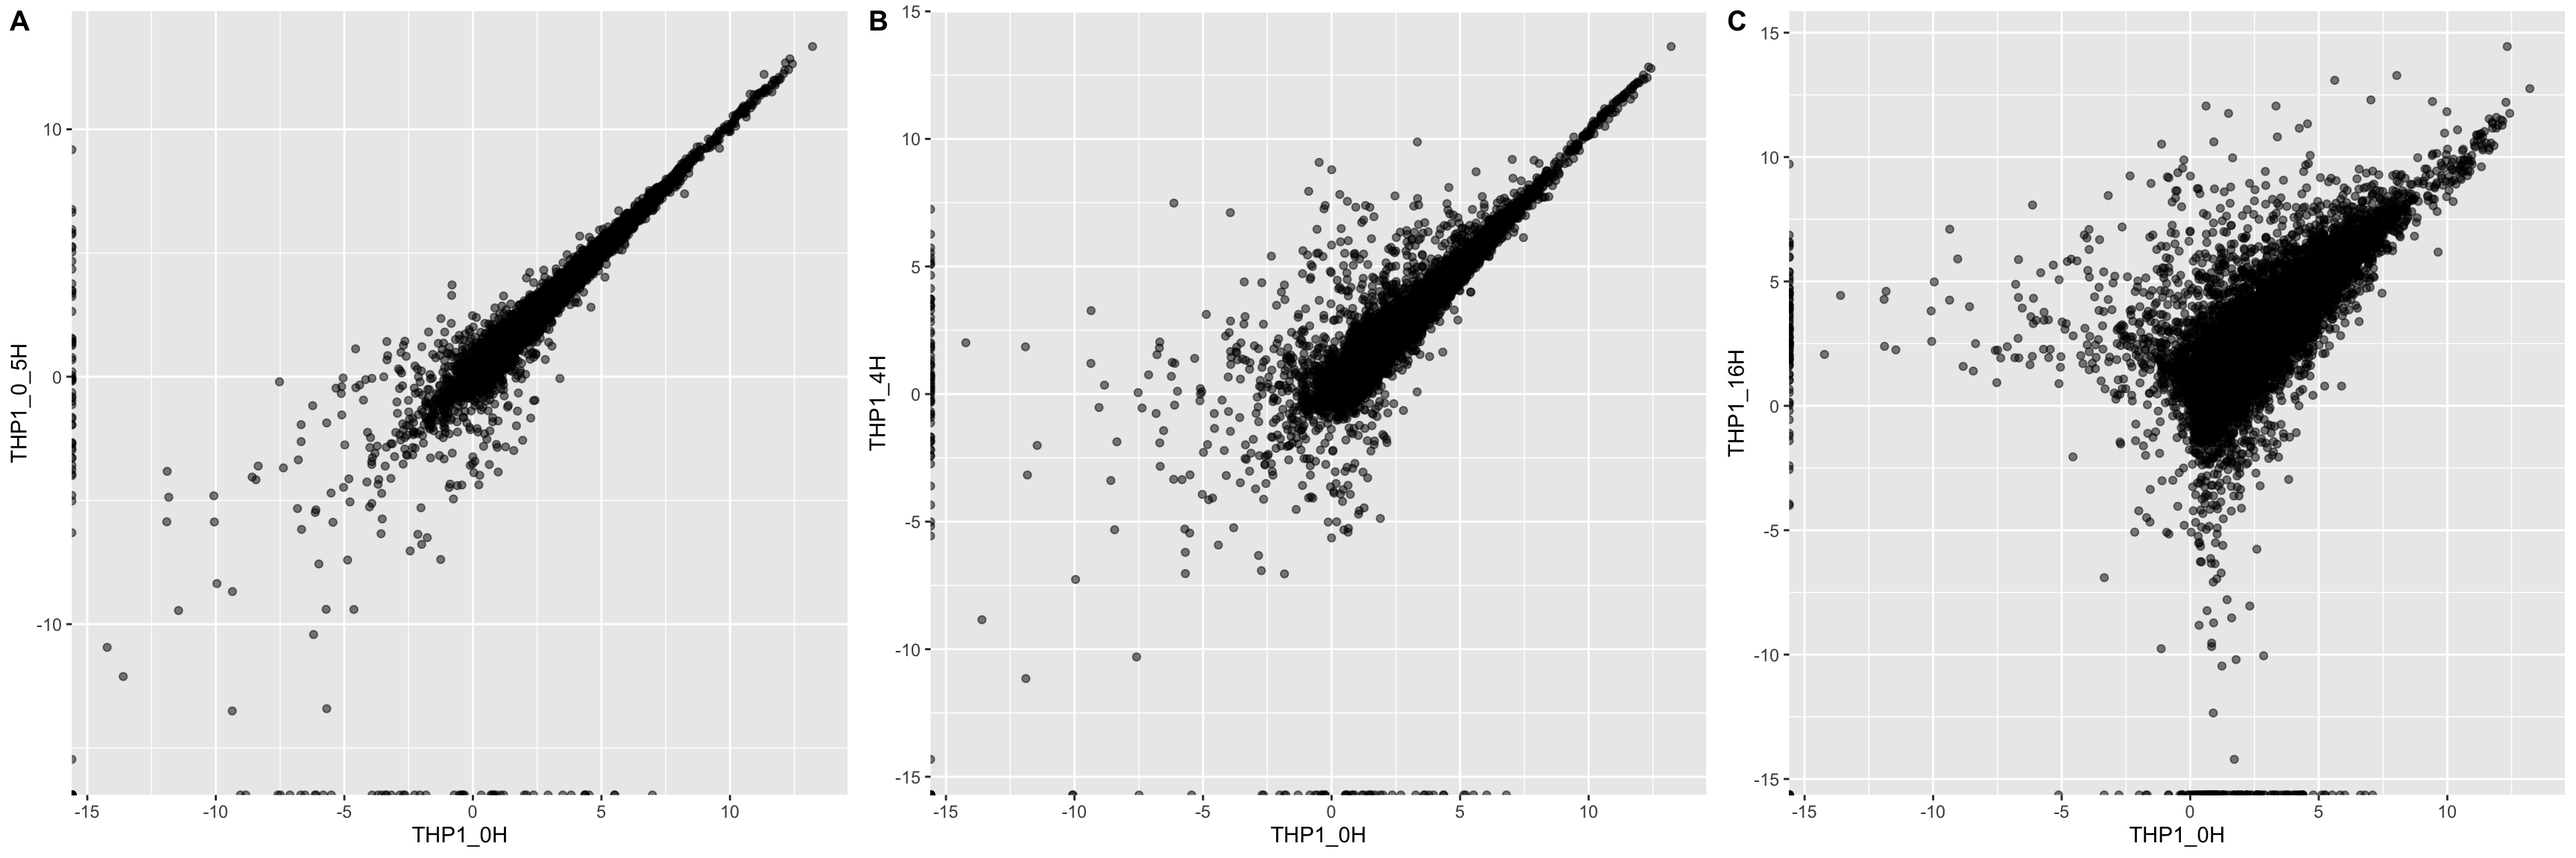
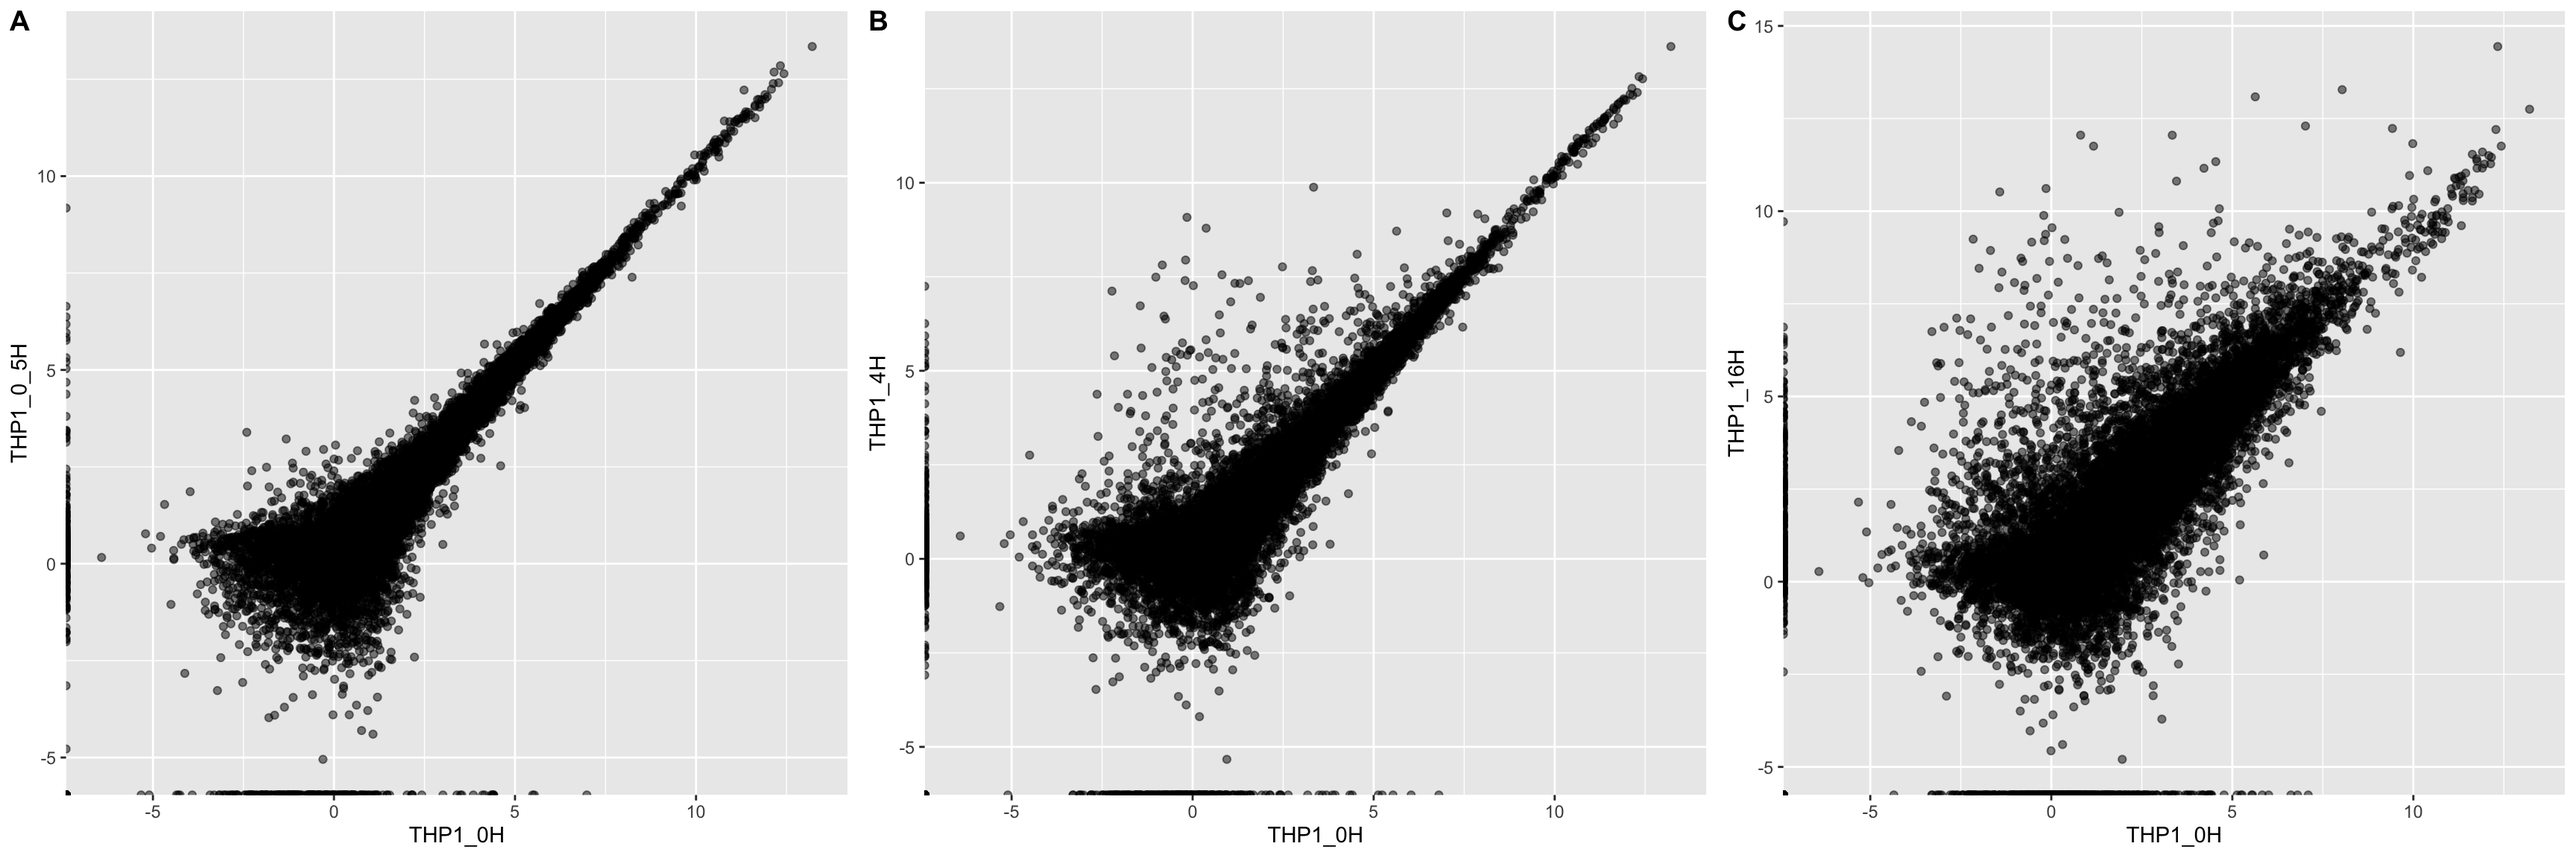
changed wording to clarify when simulated data is used

diff --git a/content/post/2019-08-16-r-fridays-7-fluorescence-anisotropy.html b/content/post/2019-08-16-r-fridays-7-fluorescence-anisotropy.html
@@ -19,39 +19,39 @@ excerpt: "In this post we will analyze fluorescence anisotropy data to determine
 <p>Today’s data and code were generously provided by <a href="https://lab.vanderbilt.edu/ren-lab/person/andrew-morris/">Andrew Morris</a> of the Ren lab. <a href="https://en.wikipedia.org/wiki/Fluorescence_anisotropy">Fluorescence anisotropy</a> is a technique to measure the binding of a fluorescent molecule to a protein of interest. If the fluorescent molecule is bound to the protein, it should have less freedom of movement in solution, resulting in the emitted light being more polarized. This allows for estimation of binding kinetics.</p>
 <div id="the-data" class="section level2">
 <h2>The data</h2>
-<p>Andrew used fluorescence anisotropy to measure binding of a mutant protein in different buffer conditions. He compared binding of the wild-type protein in 150mM NaCl in tris buffer to binding of the mutant protein in 50mM NaCl in tris buffer, 150mM NaCl in tris buffer, and 150mM NaCl in HEPES buffer.</p>
+<p>Andrew used fluorescence anisotropy to measure binding of a mutant protein in different buffer conditions. He compared binding of the wild-type protein in 150mM NaCl in tris buffer to binding of the mutant protein in 50mM NaCl in tris buffer, 150mM NaCl in tris buffer, and 150mM NaCl in HEPES buffer. Today we will be working with data simulated from his experiment.</p>
 </div>
 <div id="loading-in-the-data" class="section level2">
 <h2>Loading in the data</h2>
 <p>Andrew read in his data using <code>read_tsv()</code> from the tidyverse package:</p>
 <pre class="r"><code>library(tidyverse)</code></pre>
-<pre><code>## ── Attaching packages ──────────────────────────────────────────────────────────────────────────────────────────────────────────────────── tidyverse 1.2.1 ──</code></pre>
+<pre><code>## ── Attaching packages ────────────────────────────────────────────────────────────── tidyverse 1.2.1 ──</code></pre>
 <pre><code>## ✔ ggplot2 3.2.1     ✔ purrr   0.3.2
 ## ✔ tibble  2.1.3     ✔ dplyr   0.8.3
 ## ✔ tidyr   1.0.0     ✔ stringr 1.4.0
 ## ✔ readr   1.3.1     ✔ forcats 0.4.0</code></pre>
-<pre><code>## ── Conflicts ─────────────────────────────────────────────────────────────────────────────────────────────────────────────────────── tidyverse_conflicts() ──
+<pre><code>## ── Conflicts ───────────────────────────────────────────────────────────────── tidyverse_conflicts() ──
 ## ✖ dplyr::filter() masks stats::filter()
 ## ✖ dplyr::lag()    masks stats::lag()</code></pre>
-<pre class="r"><code>nacl50_tris &lt;- read_tsv(&quot;../../data/50NaCl_Tris.txt&quot;)</code></pre>
+<pre class="r"><code>nacl50_tris &lt;- read_tsv(&quot;../../data/andrew_081619_50NaCl_Tris_noise.tsv&quot;)</code></pre>
 <pre><code>## Parsed with column specification:
 ## cols(
 ##   NP = col_double(),
 ##   ani = col_double()
 ## )</code></pre>
-<pre class="r"><code>nacl150_tris &lt;- read_tsv(&quot;../../data/150NaCl_Tris.txt&quot;)</code></pre>
+<pre class="r"><code>nacl150_tris &lt;- read_tsv(&quot;../../data/andrew_081619_150NaCl_Tris_noise.tsv&quot;)</code></pre>
 <pre><code>## Parsed with column specification:
 ## cols(
 ##   NP = col_double(),
 ##   ani = col_double()
 ## )</code></pre>
-<pre class="r"><code>nacl150_hepes &lt;- read_tsv(&quot;../../data/150NaCl_HEPES.txt&quot;)</code></pre>
+<pre class="r"><code>nacl150_hepes &lt;- read_tsv(&quot;../../data/andrew_081619_150NaCl_HEPES_noise.tsv&quot;)</code></pre>
 <pre><code>## Parsed with column specification:
 ## cols(
 ##   NP = col_double(),
 ##   ani = col_double()
 ## )</code></pre>
-<pre class="r"><code>wt &lt;- read_tsv(&quot;../../data/WT.txt&quot;)</code></pre>
+<pre class="r"><code>wt &lt;- read_tsv(&quot;../../data/andrew_081619_WT_noise.tsv&quot;)</code></pre>
 <pre><code>## Parsed with column specification:
 ## cols(
 ##   NP = col_double(),
@@ -79,15 +79,15 @@ summary(model.nls)</code></pre>
 ## 
 ## Parameters:
 ##    Estimate Std. Error t value Pr(&gt;|t|)    
-## K    361.80      52.14   6.939 9.75e-07 ***
-## Vm   301.13      13.50  22.307 1.33e-15 ***
+## K    368.07      54.09   6.805 1.29e-06 ***
+## Vm   302.04      13.91  21.716 2.23e-15 ***
 ## ---
 ## Signif. codes:  0 &#39;***&#39; 0.001 &#39;**&#39; 0.01 &#39;*&#39; 0.05 &#39;.&#39; 0.1 &#39; &#39; 1
 ## 
-## Residual standard error: 18.95 on 20 degrees of freedom
+## Residual standard error: 19.39 on 20 degrees of freedom
 ## 
-## Number of iterations to convergence: 7 
-## Achieved convergence tolerance: 7.747e-06</code></pre>
+## Number of iterations to convergence: 8 
+## Achieved convergence tolerance: 6.868e-06</code></pre>
 <p>Andrew then used base R to plot his data and model</p>
 <pre class="r"><code>plot(wt)
 lines(wt$NP, predict(model.nls), col = &quot;red&quot;)</code></pre>
@@ -114,15 +114,15 @@ summary(hill_model.nls)</code></pre>
 ## 
 ## Parameters:
 ##     Estimate Std. Error t value Pr(&gt;|t|)    
-## Ka 246.67982    4.34017   56.84   &lt;2e-16 ***
-## n    1.82513    0.05166   35.33   &lt;2e-16 ***
+## Ka 249.15889    4.27001   58.35   &lt;2e-16 ***
+## n    1.83856    0.05118   35.92   &lt;2e-16 ***
 ## ---
 ## Signif. codes:  0 &#39;***&#39; 0.001 &#39;**&#39; 0.01 &#39;*&#39; 0.05 &#39;.&#39; 0.1 &#39; &#39; 1
 ## 
-## Residual standard error: 0.01809 on 20 degrees of freedom
+## Residual standard error: 0.01775 on 20 degrees of freedom
 ## 
 ## Number of iterations to convergence: 5 
-## Achieved convergence tolerance: 1.041e-06</code></pre>
+## Achieved convergence tolerance: 5.86e-07</code></pre>
 <p>Then he plotted the data as before.</p>
 <pre class="r"><code>plot(wt)
 lines(wt$NP, predict(hill_model.nls), col = &quot;red&quot;)</code></pre>

diff --git a/content/post/2019-08-09-r-fridays-6.html b/content/post/2019-08-09-r-fridays-6.html
@@ -16,7 +16,7 @@ excerpt: "Katie Rothamel demonstrates how to visualize FPKM values from RNA-seq 
 <p>Hey everyone! Today we will be discussing how to import and visualize results from RNA-seq experiments. The code below was generously provided by <a href="https://lab.vanderbilt.edu/ascano-lab/person/katherine-rothamel/">Katie Rothamel</a> of the Ascano lab.</p>
 <div id="the-experiment" class="section level2">
 <h2>The experiment</h2>
-<p>The example dataset was simulated from a real experiment comparing RNA expression levels from two conditions (treated and untreated) in a human monocyte cell line (THP1). The cells were treated with cGAMP, an agonist of the STING signaling pathway, to stimulate an innate immune response. The treatment was also performed in a timecourse, with 0 hours representing the untreated condition, and timepoints at 0.5, 4, and 16 hours post-treatment with cGAMP. Each condition has three biological replicates.</p>
+<p>The example dataset was simulated from an experiment comparing RNA expression levels from two conditions (treated and untreated) in a human monocyte cell line (THP1). The cells were treated with cGAMP, an agonist of the STING signaling pathway, to stimulate an innate immune response. The treatment was also performed in a timecourse, with 0 hours representing the untreated condition, and timepoints at 0.5, 4, and 16 hours post-treatment with cGAMP. Each condition has three biological replicates.</p>
 </div>
 <div id="the-data" class="section level2">
 <h2>The data</h2>
@@ -34,16 +34,16 @@ excerpt: "Katie Rothamel demonstrates how to visualize FPKM values from RNA-seq 
 <h2>Loading the data into R</h2>
 <p>Katie used the tidyverse packages to load and manipulate her data in R.</p>
 <pre class="r"><code>library(tidyverse)</code></pre>
-<pre><code>## ── Attaching packages ──────────────────────────────────────────────────────────────────────────────────────────────────────────────────── tidyverse 1.2.1 ──</code></pre>
+<pre><code>## ── Attaching packages ────────────────────────────────────────────────────────────── tidyverse 1.2.1 ──</code></pre>
 <pre><code>## ✔ ggplot2 3.2.1     ✔ purrr   0.3.2
 ## ✔ tibble  2.1.3     ✔ dplyr   0.8.3
 ## ✔ tidyr   1.0.0     ✔ stringr 1.4.0
 ## ✔ readr   1.3.1     ✔ forcats 0.4.0</code></pre>
-<pre><code>## ── Conflicts ─────────────────────────────────────────────────────────────────────────────────────────────────────────────────────── tidyverse_conflicts() ──
+<pre><code>## ── Conflicts ───────────────────────────────────────────────────────────────── tidyverse_conflicts() ──
 ## ✖ dplyr::filter() masks stats::filter()
 ## ✖ dplyr::lag()    masks stats::lag()</code></pre>
-<p>Specifically, she used the <code>read_tsv()</code> function to read in her data and the <code>select()</code> function to select columns that she was interested in. She connected these two commands with a <strong>pipe</strong> (<code>%&gt;%</code>) to send the output of <code>read_tsv()</code> to the first argument of <code>select()</code>.</p>
-<pre class="r"><code>rna_seq &lt;- read_tsv(&quot;../../data/cds.fpkm_tracking&quot;) %&gt;%
+<p>Specifically, she used the <code>read_csv()</code> function to read in her data and the <code>select()</code> function to select columns that she was interested in. She connected these two commands with a <strong>pipe</strong> (<code>%&gt;%</code>) to send the output of <code>read_tsv()</code> to the first argument of <code>select()</code>.</p>
+<pre class="r"><code>rna_seq &lt;- read_csv(&quot;../../data/katie_080919_noise.csv&quot;) %&gt;%
   select(gene_short_name, THP1_0H_1_1_FPKM, THP1_0H_2_1_FPKM, THP1_0H_3_1_FPKM,
          THP1_0_5H_1_1_FPKM, THP1_0_5H_2_1_FPKM, THP1_0_5H_3_1_FPKM,
          THP1_4H_1_1_FPKM, THP1_4H_2_1_FPKM, THP1_4H_3_1_FPKM, 
@@ -51,13 +51,8 @@ excerpt: "Katie Rothamel demonstrates how to visualize FPKM values from RNA-seq 
 <pre><code>## Parsed with column specification:
 ## cols(
 ##   .default = col_double(),
-##   tracking_id = col_character(),
 ##   class_code = col_character(),
 ##   nearest_ref_id = col_character(),
-##   gene_id = col_character(),
-##   gene_short_name = col_character(),
-##   tss_id = col_character(),
-##   locus = col_character(),
 ##   length = col_character(),
 ##   coverage = col_character(),
 ##   THP1_0H_1_1_status = col_character(),
@@ -70,8 +65,13 @@ excerpt: "Katie Rothamel demonstrates how to visualize FPKM values from RNA-seq 
 ##   THP1_0H_3_2_status = col_character(),
 ##   THP1_0_5H_2_2_status = col_character(),
 ##   THP1_16H_1_2_status = col_character(),
-##   THP1_16H_3_2_status = col_character()
-##   # ... with 13 more columns
+##   THP1_16H_3_2_status = col_character(),
+##   THP1_4H_2_2_status = col_character(),
+##   THP1_0H_2_1_status = col_character(),
+##   THP1_0_5H_1_1_status = col_character(),
+##   THP1_0_5H_3_1_status = col_character(),
+##   THP1_16H_2_1_status = col_character()
+##   # ... with 8 more columns
 ## )</code></pre>
 <pre><code>## See spec(...) for full column specifications.</code></pre>
 <p>The columns she selected are the gene name (<code>gene_short_name</code>) and the FPKM values for all of her timepoints and conditions. <code>THP1_0H_1_1_FPKM</code> refers to biological replicate 1 of the unstimulated condition, <code>THP1_0H_2_1_FPKM</code> referse to replicate 2, and so on.</p>

diff --git a/content/post/2019-09-23-r-fridays-8-pro-seq-and-heatmaps.html b/content/post/2019-09-23-r-fridays-8-pro-seq-and-heatmaps.html
@@ -14,24 +14,27 @@ excerpt: "Monica demonstrates how to make heatmaps from PRO-seq data using the p
 
 <div id="looking-for-patterns-in-pro-seq-with-heatmaps" class="section level1">
 <h1>Looking for patterns in PRO-seq with heatmaps</h1>
-<p>Traditional RNA-seq measures RNA <strong>levels</strong> which are the result of both transcription and degradation of mRNA transcripts. <a href="https://lab.vanderbilt.edu/hiebert-lab/person/monica-bomber/">Monica Bomber</a> of the Hiebert Lab uses <a href="https://www.nature.com/articles/nprot.2016.086">PRO-seq</a> (precision nuclear run-on sequencing) to directly measure gene transcription rates. PRO-seq can measure transcription rates and identify transcription start sites at high-resolution througout the genome. Today, Monica showed us how to generate a heatmap to understand how transcription rates change over time in human lymphocytes.</p>
+<p>Traditional RNA-seq measures RNA <strong>levels</strong> which are the result of both transcription and degradation of mRNA transcripts. <a href="https://lab.vanderbilt.edu/hiebert-lab/person/monica-bomber/">Monica Bomber</a> of the Hiebert Lab uses <a href="https://www.nature.com/articles/nprot.2016.086">PRO-seq</a> (precision nuclear run-on sequencing) to directly measure gene transcription rates. PRO-seq can measure transcription rates and identify transcription start sites at high-resolution througout the genome. Today, Monica showed us how to generate a heatmap to understand how transcription rates change over time in human lymphocytes. Take a look at her approach and simulated data below.</p>
+<div id="reading-in-the-data" class="section level2">
+<h2>Reading in the data</h2>
 <p>Monica read in her data using <code>read_csv()</code> from the tidyverse.</p>
 <pre class="r"><code>library(tidyverse)</code></pre>
-<pre><code>## ── Attaching packages ──────────────────────────────────────────────────────────────────────────────────────────────────────────────────── tidyverse 1.2.1 ──</code></pre>
+<pre><code>## ── Attaching packages ────────────────────────────────────────────────────────────── tidyverse 1.2.1 ──</code></pre>
 <pre><code>## ✔ ggplot2 3.2.1     ✔ purrr   0.3.2
 ## ✔ tibble  2.1.3     ✔ dplyr   0.8.3
 ## ✔ tidyr   1.0.0     ✔ stringr 1.4.0
 ## ✔ readr   1.3.1     ✔ forcats 0.4.0</code></pre>
-<pre><code>## ── Conflicts ─────────────────────────────────────────────────────────────────────────────────────────────────────────────────────── tidyverse_conflicts() ──
+<pre><code>## ── Conflicts ───────────────────────────────────────────────────────────────── tidyverse_conflicts() ──
 ## ✖ dplyr::filter() masks stats::filter()
 ## ✖ dplyr::lag()    masks stats::lag()</code></pre>
-<pre class="r"><code>proseq &lt;- read_csv(&quot;../../data/081819_T2T6T24h_heatmapbinsgbupdn_T24hsiglistcom.csv&quot;)</code></pre>
+<pre class="r"><code>proseq &lt;- read_csv(&quot;../../data/monica_092319_noise.csv&quot;)</code></pre>
 <pre><code>## Parsed with column specification:
 ## cols(
-##   `Gene list` = col_character(),
+##   `Gene list` = col_double(),
 ##   `2 hour` = col_double(),
 ##   `6 hour` = col_double(),
 ##   `24 hour` = col_double()
 ## )</code></pre>
 <p>Her data contains the log2-transformed expression values for 3 different time-points: 2 hours, 6 hours, and 24 hours post stimulation.</p>
+</div>
 </div>

diff --git a/content/post/2019-07-26-day-4-analyzing-maxquant-proteomics-data.html b/content/post/2019-07-26-day-4-analyzing-maxquant-proteomics-data.html
@@ -15,7 +15,7 @@ excerpt: "In this post we explore the distribution of raw MS1 intensities from L
 
 <div id="processing-proteomics-data-from-maxquant" class="section level1">
 <h1>Processing proteomics data from MaxQuant</h1>
-<p>The data we analyzed today comes from an LC-MS/MS analysis of the human RNA-binding proteins that directly interact with incoming RNA virus genomes. You can use <a href="https://saraharcos.github.io/projects.html">this link</a> to see more about how this data was generated <em>(manuscript under review)</em>.</p>
+<p>The data we analyzed today was simulated from an LC-MS/MS analysis of the human RNA-binding proteins that directly interact with incoming RNA virus genomes. You can use <a href="https://saraharcos.github.io/projects.html">this link</a> to see more about how this data was generated <em>(manuscript under review)</em>.</p>
 <p>We tested three different timepoints and 2 different treatment conditions (+ and - interferon/IFNB1). For these conditions, we have three biological replicates. We also have two control biological replicates for each condition. Here is a summary of all the samples:</p>
 <div id="experimental-conditions" class="section level3">
 <h3>Experimental Conditions</h3>
@@ -49,31 +49,10 @@ excerpt: "In this post we explore the distribution of raw MS1 intensities from L
 <p>First, let’s load the tidyverse package to our R session.</p>
 <pre class="r"><code>library(tidyverse)</code></pre>
 <p>Next, we can use the <code>read_tsv()</code> function to read the data from proteinGroups.txt into R</p>
-<pre class="r"><code>mq_full &lt;- read_tsv(&quot;../../data/proteinGroups.txt&quot;)</code></pre>
+<pre class="r"><code>mq_full &lt;- read_tsv(&quot;../../data/maxquant_072619.tsv&quot;)</code></pre>
 <pre><code>## Parsed with column specification:
 ## cols(
-##   .default = col_double(),
-##   `Protein IDs` = col_character(),
-##   `Majority protein IDs` = col_character(),
-##   `Peptide counts (all)` = col_character(),
-##   `Peptide counts (razor+unique)` = col_character(),
-##   `Peptide counts (unique)` = col_character(),
-##   `Fasta headers` = col_character(),
-##   `Sequence lengths` = col_character(),
-##   `Identification type 0hr_minus_rep1` = col_character(),
-##   `Identification type 0hr_minus_rep2` = col_character(),
-##   `Identification type 0hr_minus_rep3` = col_character(),
-##   `Identification type 0hr_plus_rep1` = col_character(),
-##   `Identification type 0hr_plus_rep2` = col_character(),
-##   `Identification type 0hr_plus_rep3` = col_character(),
-##   `Identification type 1hr_minus_rep1` = col_character(),
-##   `Identification type 1hr_minus_rep2` = col_character(),
-##   `Identification type 1hr_minus_rep3` = col_character(),
-##   `Identification type 1hr_plus_rep1` = col_character(),
-##   `Identification type 1hr_plus_rep2` = col_character(),
-##   `Identification type 1hr_plus_rep3` = col_character(),
-##   `Identification type 3hr_minus_rep1` = col_character()
-##   # ... with 20 more columns
+##   .default = col_double()
 ## )</code></pre>
 <pre><code>## See spec(...) for full column specifications.</code></pre>
 <p>Wow! That’s a lot of columns. Today we will only be plotting the MS1 ion intensity data, so let’s select only the Intensity columns and the column with the Protein IDs. We also want to specify that we want the raw Intensity columns, not the “LFQ” (Label-Free Quantification) Intensity columns.</p>
